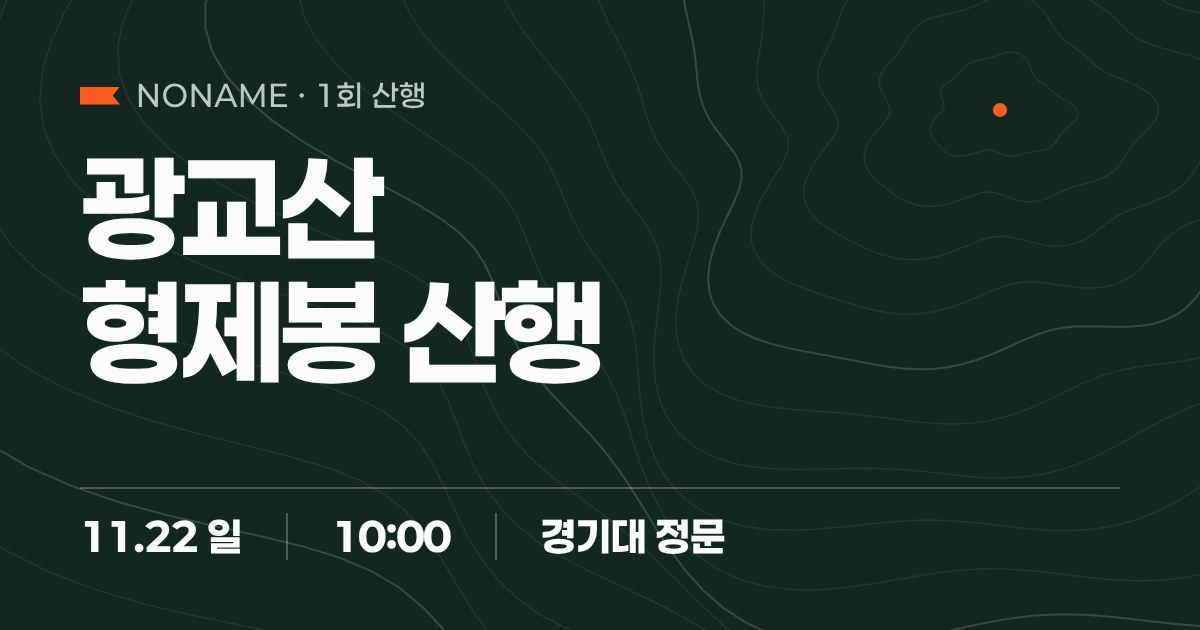
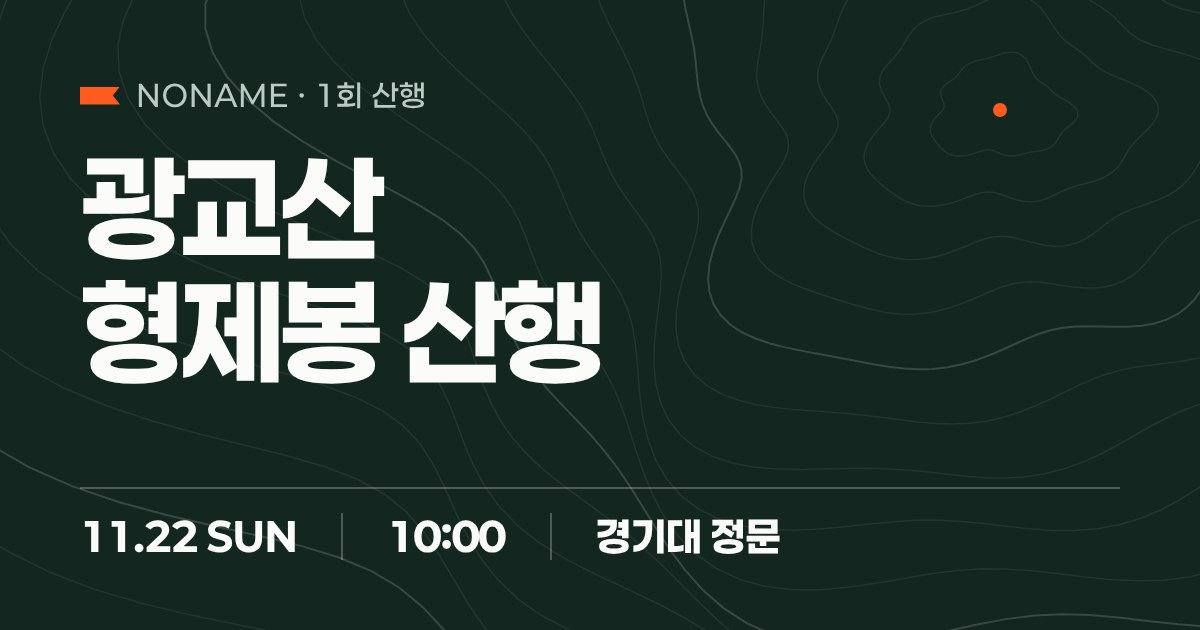
NONAME 초대장: 날짜 11.22 SUN
Claude-Session: https://claude.ai/code/session_013doMR4vZ2qM2LatZiUkHfH

Changed region(s): [[0.2775, 0.8143, 0.6475, 0.9048], [0.1542, 0.8143, 0.2467, 0.9048]]

diff --git a/noname/index.html b/noname/index.html
@@ -192,7 +192,7 @@ footer small{display:block;font-family:var(--body);font-size:12px;color:#8fa79c;
     <h1 class="up u2">광교산<br>형제봉 산행</h1>
     <p class="sub up u3">올라가서 사진 찍고, 내려와서 고기 먹고 해산.</p>
     <div class="ticket up u4">
-      <div><small>DATE</small><b>11.22 일</b></div>
+      <div><small>DATE</small><b>11.22 SUN</b></div>
       <div><small>MEET</small><b>10:00</b></div>
       <div><small>PEAK</small><b><span data-count="448">448</span>m</b></div>
     </div>
